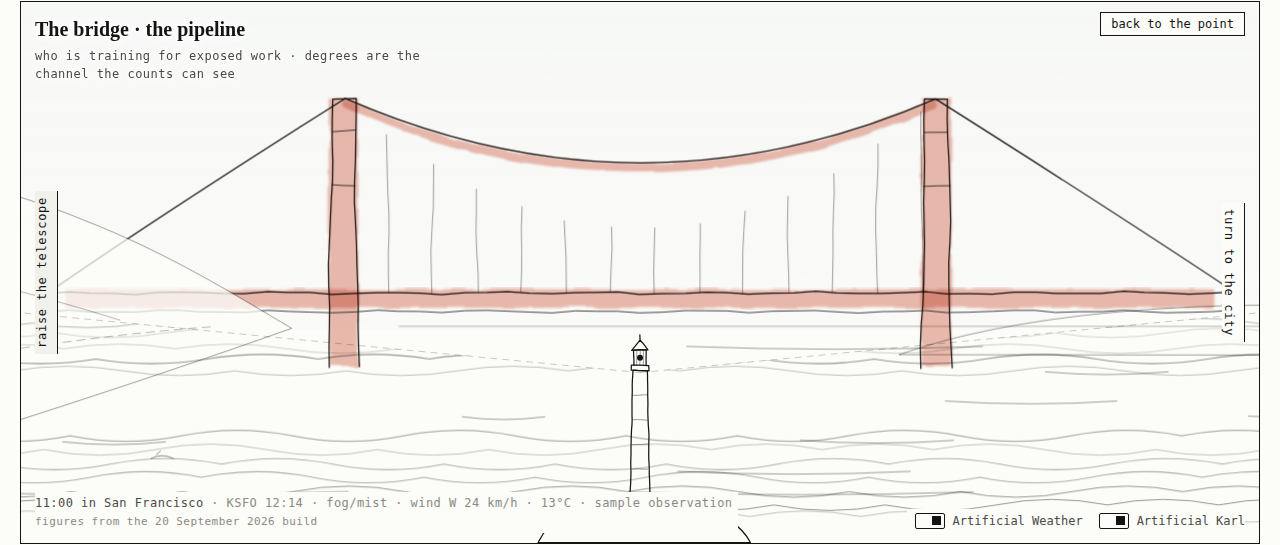
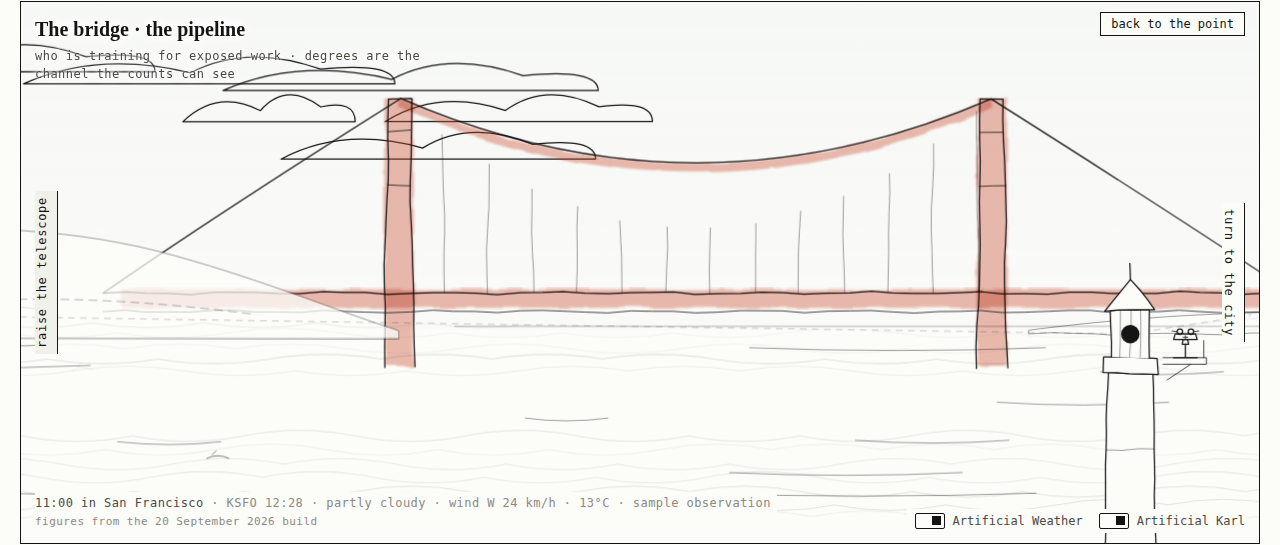
Front page: the lantern large at the edge of the turned views, the telescope on the gallery looking south, the lighthouse solid, a lower headland, Sutro's hill a slope, the city's ink lighter, homes on the southern hills, the hydrant's water away from the car, a first launch that can falter and fall

diff --git a/docs/mockup/index.html b/docs/mockup/index.html
@@ -51,6 +51,10 @@ header.top{display:flex;align-items:baseline;justify-content:space-between;gap:1
 .scene{stroke:var(--ink);fill:none;stroke-width:1.25px;stroke-linecap:round;stroke-linejoin:round}
 .scene .thin{stroke-width:.8px}
 .scene .hair{stroke-width:.55px;opacity:.75}
+@property --ck{syntax:'<number>';inherits:true;initial-value:.62}
+.stage{--ck:.62;transition:--ck 1.4s}
+.stage[data-view="city"]{--ck:1}
+.scene .city path{stroke-width:calc(1px*var(--ck))}.scene .city path.thin{stroke-width:calc(.7px*var(--ck))}.scene .city path.hair{stroke-width:calc(.45px*var(--ck))}
 .vig .scene{stroke-width:1.6}.vig .scene .thin{stroke-width:1}.vig .scene .hair{stroke-width:.7}
 .scene .solid{fill:var(--ink);stroke:none}
 .scene text{font-family:var(--mono);font-size:12px;fill:var(--ink-2);stroke:none;letter-spacing:.04em}
@@ -227,14 +231,10 @@ header.top{display:flex;align-items:baseline;justify-content:space-between;gap:1
         <path d="M600 660 C 650 640, 700 645, 740 630 M850 640 C 900 630, 950 650, 1000 670" class="thin"/>
         <g class="beam" id="beam"><path d="" class="hair" stroke-dasharray="6 6"/></g>
         <g id="lh"></g>
+        <!-- a small platform off the gallery, and the coin telescope on it, turned south -->
+        <path d="M825 283 L 858 283 L 858 288 L 825 288 M 856 283 L 856 270 M 846 288 L 828 300" class="thin" style="fill:var(--paper)"/>
+        <g transform="translate(842,283)" id="viewer-small"></g>
         <path d="M640 604 L 960 604 M640 604 L 640 630 M720 604 L 720 632 M800 604 L 800 632 M880 604 L 880 630 M960 604 L 960 628" class="thin"/>
-        <g class="hot" id="hot-tele" tabindex="0" role="button" aria-label="The telescope: where usage lands">
-          <path class="hit" d="M800 300 L560 700 L1040 700 Z"/><path class="hit" d="M690 520 h220 v180 h-220 Z"/>
-          <g transform="translate(800,655)" id="viewer-small"></g>
-          <text x="828" y="568" class="cap">The telescope</text>
-          <text x="828" y="542" class="mark" id="mark-valley"></text>
-          <g class="detail"><text x="828" y="518">where usage lands · look south, to the valley</text></g>
-        </g>
         <g class="hot" id="hot-city" tabindex="0" role="button" aria-label="The city: what has moved">
           <path class="hit" d="M800 300 L1600 120 L1600 480 Z"/><path class="hit" d="M1000 120 h560 v200 h-560 Z"/>
           <text x="1540" y="160" text-anchor="end" class="cap">The city</text>
@@ -246,6 +246,12 @@ header.top{display:flex;align-items:baseline;justify-content:space-between;gap:1
           <text x="110" y="160" class="cap">The bridge</text>
           <text x="110" y="188" class="mark" id="mark-bridge"></text>
           <g class="detail"><text x="110" y="210">the pipeline · who is training for exposed work</text></g>
+        </g>
+        <g class="hot" id="hot-tele" tabindex="0" role="button" aria-label="The telescope: where usage lands">
+          <path class="hit" d="M760 200 h110 v400 h-110 Z"/><path class="hit" d="M860 400 h290 v84 h-290 Z"/>
+          <text x="872" y="424" class="cap">The telescope</text>
+          <text x="872" y="446" class="mark" id="mark-valley"></text>
+          <g class="detail"><text x="872" y="466">where usage lands · looking south, down the bay</text></g>
         </g>
       </g></g>
     </svg>
@@ -341,12 +347,12 @@ header.top{display:flex;align-items:baseline;justify-content:space-between;gap:1
   }
   function lighthouse(g, x, y, h){
     const w = 34, top = y - h;
-    el("path", {d:`M${x-w/2-6} ${y} L ${x-w/2} ${top+40} L ${x+w/2} ${top+40} L ${x+w/2+6} ${y} Z`}, g);
+    el("path", {d:`M${x-w/2-6} ${y} L ${x-w/2} ${top+40} L ${x+w/2} ${top+40} L ${x+w/2+6} ${y} Z`, style:"fill:var(--paper)"}, g);
     for (let i=1;i<5;i++){ const yy = top+40 + (y-top-40)*i/5; el("path", {d:`M${x-w/2-1} ${yy} L ${x+w/2+1} ${yy}`, class:"hair"}, g); }
-    el("path", {d:`M${x-w/2-4} ${top+40} L ${x+w/2+4} ${top+40} L ${x+w/2+4} ${top+28} L ${x-w/2-4} ${top+28} Z`}, g);
-    el("path", {d:`M${x-w/2+2} ${top+28} L ${x-w/2+2} ${top-8} L ${x+w/2-2} ${top-8} L ${x+w/2-2} ${top+28}`}, g);
+    el("path", {d:`M${x-w/2-4} ${top+40} L ${x+w/2+4} ${top+40} L ${x+w/2+4} ${top+28} L ${x-w/2-4} ${top+28} Z`, style:"fill:var(--paper)"}, g);
+    el("path", {d:`M${x-w/2+2} ${top+28} L ${x-w/2+2} ${top-8} L ${x+w/2-2} ${top-8} L ${x+w/2-2} ${top+28}`, style:"fill:var(--paper)"}, g);
     el("path", {d:`M${x-8} ${top-8} L ${x-8} ${top+28} M${x} ${top-8} L ${x} ${top+28} M${x+8} ${top-8} L ${x+8} ${top+28}`, class:"hair"}, g);
-    el("path", {d:`M${x-w/2-2} ${top-8} L ${x+w/2+2} ${top-8} L ${x} ${top-32} Z`}, g);
+    el("path", {d:`M${x-w/2-2} ${top-8} L ${x+w/2+2} ${top-8} L ${x} ${top-32} Z`, style:"fill:var(--paper)"}, g);
     el("path", {d:`M${x} ${top-32} L ${x} ${top-44}`}, g);
     el("circle", {cx:x, cy:top+10, r:26, class:"halo"}, g);
     el("circle", {cx:x, cy:top+10, r:7, class:"solid lantern"}, g);
@@ -416,7 +422,7 @@ header.top{display:flex;align-items:baseline;justify-content:space-between;gap:1
      this one drawing about that place, so what you were looking at grows and nothing new arrives. The
      lighthouse in front is fixed, and shrinks to the base of the frame when the view has turned. */
   // c is the point of the scene brought to the middle of the frame (800, 300); s is how far the view leans in
-  const ZOOM = { home:{c:[800,300], s:1}, city:{c:[1100,300], s:2.3}, bridge:{c:[460,290], s:2.4}, valley:{c:[800,300], s:1} };
+  const ZOOM = { home:{c:[800,300], s:1}, city:{c:[1170,300], s:2.3}, bridge:{c:[430,290], s:2.4}, valley:{c:[800,300], s:1} };
   const toScreen = (view, x, y) => { const {c, s} = ZOOM[view]; return [800 + s*(x-c[0]), 300 + s*(y-c[1])]; };
   const toScene  = (view, x, y) => { const {c, s} = ZOOM[view]; return [c[0] + (x-800)/s, c[1] + (y-300)/s]; };
   const far = $("#far"), washes = $("#washes"), waterG = $("#water"), fogG = $("#fog");
@@ -429,13 +435,13 @@ header.top{display:flex;align-items:baseline;justify-content:space-between;gap:1
   // the Marin headland, near, drawn over the water so the bay ends at its foot; the road out to the point on it
   const headland = el("g", {}, waterG);
   // a ridge that falls from the left edge to the water, the Gate's north end on its shoulder
-  el("path", {d:"M 0 430 L 0 246 C 50 250, 110 262, 160 282 C 205 300, 240 322, 272 342 C 190 370, 95 400, 0 430 Z", style:"fill:var(--paper)"}, headland);
-  el("path", {d:"M 0 300 C 60 304, 120 318, 180 336", class:"hair"}, headland);
-  el("path", {d:"M 0 372 C 70 360, 150 346, 230 340", class:"hair", "stroke-dasharray":"8 6"}, headland);
+  // the Marin headland: a low rounded shoulder falling to the water at the Gate's north end
+  el("path", {d:"M 0 346 L 0 292 C 50 284, 115 286, 170 300 C 220 313, 262 330, 300 342 L 300 346 Z", style:"fill:var(--paper)"}, headland);
+  el("path", {d:"M 20 330 C 80 322, 150 324, 220 334", class:"hair", "stroke-dasharray":"8 6"}, headland);
   fog(fogG, [[330, 5, 6],[400, 6, 7],[470, 5, 5]], 11);
 
   // the Presidio's low shore at the Gate's south end, running on to the city
-  el("path", {d:"M 600 356 C 660 334, 760 324, 860 330 C 920 334, 970 338, 1000 340 L 1000 356 Z", style:"fill:var(--paper)", class:"hair"}, far);
+  el("path", {d:"M 640 342 C 700 334, 780 330, 860 334 C 940 338, 1030 340, 1080 340 L 1080 344 L 640 344 Z", style:"fill:var(--paper)", class:"hair"}, far);
   // the Gate, across the middle distance
   suspension(far, 300, 620, 322, 105, 70);
   tintRect(washes, 150, 320, 620, 10, "var(--orange)");                                              // the deck
@@ -445,13 +451,14 @@ header.top{display:flex;align-items:baseline;justify-content:space-between;gap:1
   // the city, small on the horizon, drawn once at the size it has from here; turning to it scales this
   const CITY = { x:900, y:340, k:0.42 };
   const cityTransform = `translate(${CITY.x},${CITY.y}) scale(${CITY.k})`;
-  const cityG = el("g", {transform:cityTransform}, far), cityW = el("g", {transform:cityTransform}, washes);
+  const cityG = el("g", {transform:cityTransform, class:"city"}, far), cityW = el("g", {transform:cityTransform}, washes);
 
   function skyline(g, w, baseY, colour, ox=0){
     // the hills behind the city, filled, so the sky stays behind them
-    el("path", {d:`M ${ox+30} ${baseY-6} C ${ox+200} ${baseY-30}, ${ox+400} ${baseY-40}, ${ox+700} ${baseY-24} C ${ox+900} ${baseY-14}, ${ox+1100} ${baseY-20}, ${ox+1580} ${baseY-8} L ${ox+30} ${baseY-8} Z`, class:"thin", style:"fill:var(--paper)"}, g);
-    el("path", {d:`M ${ox+520} ${baseY-60} C ${ox+640} ${baseY-120}, ${ox+760} ${baseY-118}, ${ox+880} ${baseY-70} L ${ox+880} ${baseY-8} L ${ox+520} ${baseY-8} Z`, class:"hair", style:"fill:var(--paper)"}, g);
-    const sx = ox+700, sy = baseY-103;
+    // the land: a slope up from the shore to Sutro's crest, down again, then the flat of downtown to the waterfront
+    const b0 = baseY-8;
+    el("path", {d:`M ${ox+420} ${b0} C ${ox+500} ${b0-12}, ${ox+570} ${b0-52}, ${ox+630} ${b0-84} C ${ox+665} ${b0-100}, ${ox+735} ${b0-100}, ${ox+770} ${b0-86} C ${ox+830} ${b0-60}, ${ox+880} ${b0-26}, ${ox+960} ${b0-14} C ${ox+1100} ${b0-6}, ${ox+1300} ${b0-4}, ${ox+1580} ${b0} Z`, class:"thin", style:"fill:var(--paper)"}, g);
+    const sx = ox+700, sy = baseY-104;
     // Sutro: three masts, the outer pair upright at the top, pinched to a waist, splayed to the feet, tied by struts
     const H = 100;
     el("path", {d:`M${sx-26} ${sy} L ${sx-7} ${sy-H*0.5} L ${sx-16} ${sy-H*0.62} L ${sx-16} ${sy-H} M${sx} ${sy-H-8} L ${sx} ${sy} M${sx+26} ${sy} L ${sx+7} ${sy-H*0.5} L ${sx+16} ${sy-H*0.62} L ${sx+16} ${sy-H}`, class:"thin"}, g);
@@ -485,6 +492,15 @@ header.top{display:flex;align-items:baseline;justify-content:space-between;gap:1
 
   // the lighthouse, in front, on the point
   lighthouse($("#lh"), 800, 585, 330);
+  (function southHills(g){
+    el("path", {d:"M 1452 340 C 1490 326, 1535 316, 1575 318 C 1590 319, 1598 322, 1600 324 L 1600 340 Z", class:"hair", style:"fill:var(--paper)"}, g);
+    el("path", {d:"M 1500 340 C 1530 334, 1560 330, 1600 331", class:"hair"}, g);
+    const r = rng(71);
+    for (let x = 1462; x < 1596; x += 9 + r()*6){
+      const t = (x - 1452)/148, hy = 340 - 22*Math.sin(Math.min(1, t*1.2)*Math.PI/2) + 2, w = 4 + r()*3, h = 3 + r()*2;
+      el("path", {d:`M${x} ${hy} L ${x} ${hy-h} L ${x+w/2} ${hy-h-2.5} L ${x+w} ${hy-h} L ${x+w} ${hy}`, class:"hair"}, g);
+    }
+  })(far);
   wobble(far, 1); wobble($("#lh"), 2); wobble(headland, 6);
 
   /* ---------- the city after dark ----------
@@ -530,7 +546,7 @@ header.top{display:flex;align-items:baseline;justify-content:space-between;gap:1
     el("path", {d:`M${-21*s} ${-66*s} L ${-34*s} ${-68*s} M${21*s} ${-66*s} L ${34*s} ${-68*s}`, class:"thin"}, g);
     el("path", {d:`M${-6*s} ${-52*s} L ${6*s} ${-52*s} M 0 ${-56*s} L 0 ${-48*s}`, class:"thin"}, g);   // the coin slot, a cross
   }
-  viewer($("#viewer-small"), 1);
+  viewer($("#viewer-small"), .3);
   (function big(){
     const g = $("#viewer-big");
     const hood = el("g", {transform:"translate(800,700)"}, g);
@@ -570,18 +586,23 @@ header.top{display:flex;align-items:baseline;justify-content:space-between;gap:1
   const beam = $("#beam"), cone = $("#cone"), pans = document.querySelectorAll("svg.pan"), fgSvg = $("#L-fg"), fg = $("#fg"), stage = $("#stage");
   // what each view is, in the scene: the two ends the beam reaches for. The telescope is in front, on the rail.
   // from the point the beam reaches for the whole of the place; once turned, it skims the water to the place's feet
-  const TARGET = { city:{ ends:[[930, 230], [1560, 336]], base:[[930, 340], [1560, 340]] }, bridge:{ ends:[[160, 240], [760, 330]], base:[[160, 336], [760, 336]] }, tele:{ ends:[[660, 600], [940, 600]] } };
+  const TARGET = { city:{ ends:[[1050, 230], [1560, 336]], base:[[1050, 340], [1450, 340]] }, bridge:{ ends:[[160, 240], [760, 330]], base:[[160, 336], [760, 336]] }, tele:{ ends:[[1470, 334], [1600, 346]] } };
   const beamPath = $("#beam path");
+  // where the lighthouse stands in each view: whole at the point; turned, only its lantern shows, large, at the side you turned from
+  const LANTERN = [800, 265];
+  const fgAt = (x, y, s) => ({ s, t:[x - s*LANTERN[0], y - s*LANTERN[1]] });
+  const FG = { home:{ s:1, t:[0,0] }, city:fgAt(165, 430, 1.7), bridge:fgAt(1435, 430, 1.7), valley:{ s:1, t:[0,0] } };
+  const fgToScreen = (view, [x, y]) => { const f = FG[view] || FG.home; return [f.t[0] + f.s*x, f.t[1] + f.s*y]; };
+  const screenToFg = (view, [x, y]) => { const f = FG[view] || FG.home; return [(x - f.t[0])/f.s, (y - f.t[1])/f.s]; };
   function aim(t){
     const view = stage.dataset.view, target = TARGET[t];
     if (!target){ beamPath.setAttribute("d", ""); cone.setAttribute("points", "0,0"); return; }
     // the lantern and the target on screen: at the point when home, else the small lighthouse at the base and the scaled scene
-    const zoomed = view !== "home", lantern = zoomed ? [800, 480] : [800, 300], ends = zoomed && target.base ? target.base : target.ends;
-    const onScreen = t === "tele" ? ends : ends.map(([x, y]) => { if (!zoomed) return [x, y]; const [sx, sy] = toScreen(view, x, y); return [Math.max(40, Math.min(1560, sx)), sy]; });
-    // the beam is drawn in the lighthouse's own space, which is scaled to the base when the view has turned
-    const toFg = ([x, y]) => zoomed ? [800 + (x-800)/0.55, 700 + (y-700)/0.55] : [x, y];
+    const zoomed = view !== "home", lantern = fgToScreen(view, LANTERN), ends = zoomed && target.base ? target.base : target.ends;
+    const onScreen = ends.map(([x, y]) => { if (!zoomed) return [x, y]; const [sx, sy] = toScreen(view, x, y); return [Math.max(40, Math.min(1560, sx)), sy]; });
+    // the beam is drawn in the lighthouse's own space, which moves and scales with it
     const past = ([x, y]) => [lantern[0] + (x-lantern[0])*1.25, lantern[1] + (y-lantern[1])*1.25];
-    beamPath.setAttribute("d", onScreen.map(e => { const [x, y] = toFg(past(e)); return `M800 300 L ${x.toFixed(1)} ${y.toFixed(1)}`; }).join(" "));
+    beamPath.setAttribute("d", onScreen.map(e => { const [x, y] = screenToFg(view, past(e)); return `M${LANTERN[0]} ${LANTERN[1]} L ${x.toFixed(1)} ${y.toFixed(1)}`; }).join(" "));
     // the fog opens between the same two lines, in scene units
     const [ox, oy] = zoomed ? toScene(view, ...lantern) : lantern, L = 1400/ZOOM[view].s;
     const ang = onScreen.map(([x, y]) => Math.atan2(y-lantern[1], x-lantern[0])); let [a0, a1] = ang; if (a1 < a0) [a0, a1] = [a1, a0]; if (a1 - a0 > Math.PI){ [a0, a1] = [a1, a0 + 2*Math.PI]; }
@@ -666,8 +687,8 @@ header.top{display:flex;align-items:baseline;justify-content:space-between;gap:1
     // the one drawing scales about the place turned to; the lighthouse in front shrinks to the base of the frame
     const {c, s: zs} = ZOOM[view];
     document.querySelectorAll(".zoom").forEach(g => { if (g.id !== "fgzoom") g.style.transform = `translate(${800 - zs*c[0]}px, ${300 - zs*c[1]}px) scale(${zs})`; });
-    const fs = zs > 1 ? 0.55 : 1;
-    $("#fgzoom").style.transform = `translate(800px, 700px) scale(${fs}) translate(-800px, -700px)`;
+    const f = FG[view] || FG.home;
+    $("#fgzoom").style.transform = `translate(${f.t[0]}px, ${f.t[1]}px) scale(${f.s})`;
     $("#cap-h").textContent = r.cap[0]; $("#cap-p").textContent = r.cap[1];
     $("#r-title").textContent = r.title; $("#r-lens").textContent = r.lens;
     marks();
@@ -891,24 +912,30 @@ header.top{display:flex;align-items:baseline;justify-content:space-between;gap:1
       const light = el("circle", {cx:-30, cy:0, r:1.8, class:"solid"}, g); let on = false; const blink = setInterval(()=>{ on = !on; light.style.opacity = on ? 1 : 0; }, 700);
       const y = 120 + Math.random()*40;
       tween(32000, k=>{ g.setAttribute("transform", `translate(${1660 - k*1760},${y + k*18})`); }, ()=>{ clearInterval(blink); g.remove(); }); },
-    rocket(){ if (!["bridge","valley","home"].includes(stage.dataset.view)) return EVENTS.gull();
-      const view = stage.dataset.view, g = el("g", {class:"thin"}, life); const x0 = {home:1320, bridge:1180, valley:760}[view];
-      el("path", {d:"M0 0 L 0 -26 L 4 -34 L 8 -26 L 8 0 Z M0 0 L -4 6 M8 0 L 12 6", transform:"translate(-4,0)"}, g);
+    rocket(){ const view = stage.dataset.view; if (view === "city") return EVENTS.gull();
+      // it lifts from beyond the southern hills on the horizon, or, through the eyepieces, from the valley
+      const [x0, y0] = view === "valley" ? [760, 330] : view === "home" ? [1545, 332] : [1480, toScreen("bridge", 0, 338)[1]];
+      const g = el("g", {class:"thin"}, life);
+      el("path", {d:"M0 0 L 0 -26 L 4 -34 L 8 -26 L 8 0 Z M0 0 L -4 6 M8 0 L 12 6", transform:"translate(-4,0)", style:"fill:var(--paper)"}, g);
       const plume = el("g", {class:"hair"}, g);
       const puff = () => { if (plume.childElementCount < 40 && Math.random() < .6) el("path", {d:`M${(Math.random()-.5)*8} ${6 + Math.random()*10} l 0 ${6 + Math.random()*14}`}, plume); };
-      if (Math.random() < 2/3){
-        tween(14000, k=>{ const y = 300 - k*k*520, x = x0 + k*k*140; g.setAttribute("transform", `translate(${x},${y}) rotate(${k*14})`); puff(); plume.style.opacity = 1 - k*0.6; }, ()=>g.remove());
+      if (!FORCE_FAIL && Math.random() < 2/3){
+        tween(14000, k=>{ const y = y0 - k*k*(y0+80), x = x0 - k*k*170; g.setAttribute("transform", `translate(${x},${y}) rotate(${-k*16})`); puff(); plume.style.opacity = 1 - k*0.6; }, ()=>g.remove());
         return; }
-      // the other time: it climbs, falters, tumbles back to the water, and the bay closes over it
-      const waterY = {home:540, bridge:520, valley:430}[view]; let splash = null;
-      tween(11000, k=>{
-        if (k < .4){ const t = k/.4; const y = 300 - (2*t - t*t)*250, x = x0 + t*50; g.setAttribute("transform", `translate(${x},${y}) rotate(${t*14})`); puff(); plume.style.opacity = 1 - t*.7; }
-        else if (k < .82){ const t = (k-.4)/.42; const y = 50 + t*t*(waterY-50), x = x0 + 50 + Math.sin(t*9)*22; g.setAttribute("transform", `translate(${x},${y}) rotate(${14 + t*t*320 + Math.sin(t*26)*20})`); plume.style.opacity = Math.max(0, .3 - t); }
-        else { if (!splash){ g.style.opacity = 0; splash = el("g", {class:"thin"}, life); const sx = x0 + 50 + Math.sin(9)*22;
-            for (let i=0;i<7;i++){ const a = (-150 + i*20)*Math.PI/180; el("path", {d:`M${sx} ${waterY} l ${Math.cos(a)*8} ${Math.sin(a)*8} l ${Math.cos(a)*10} ${Math.sin(a)*14}`}, splash); }
-            el("path", {d:`M${sx-30} ${waterY+6} q 30 -5 60 0 M${sx-48} ${waterY+14} q 48 -6 96 0`, class:"hair"}, splash); }
-          splash.style.opacity = 1 - (k-.82)/.18; }
-      }, ()=>{ g.remove(); if (splash) splash.remove(); }); },
+      // the other time: it climbs, coughs, hangs and shudders, then tumbles back to the water, and the bay closes over it
+      const top = y0 - 230, xf = x0 - 40, waterY = y0 + 38; let pop = null, splash = null, fx = xf;
+      tween(12500, k=>{
+        if (k < .36){ const t = k/.36; g.setAttribute("transform", `translate(${x0 - t*40},${y0 - (2*t - t*t)*230}) rotate(${-t*10})`); puff(); }
+        else if (k < .46){ const t = (k-.36)/.1;
+          if (!pop){ pop = el("g", {class:"hair"}, life); for (let i=0;i<9;i++){ const a = i/9*2*Math.PI; el("path", {d:`M${xf + Math.cos(a)*7} ${top - 16 + Math.sin(a)*7} l ${Math.cos(a)*9} ${Math.sin(a)*9}`}, pop); } plume.style.opacity = 0; }
+          g.setAttribute("transform", `translate(${xf + Math.sin(t*44)*2.5},${top + t*6}) rotate(${-10 + Math.sin(t*34)*14})`); pop.style.opacity = 1 - t*.6; }
+        else if (k < .86){ const t = (k-.46)/.4; fx = xf + Math.sin(t*10)*20;
+          g.setAttribute("transform", `translate(${fx},${top + 6 + t*t*(waterY - top - 6)}) rotate(${-10 + t*t*420 + Math.sin(t*24)*25})`); if (pop) pop.style.opacity = Math.max(0, .4 - t*2); }
+        else { if (!splash){ g.style.opacity = 0; splash = el("g", {class:"thin"}, life);
+            for (let i=0;i<7;i++){ const a = (-150 + i*20)*Math.PI/180; el("path", {d:`M${fx} ${waterY} l ${Math.cos(a)*8} ${Math.sin(a)*8} l ${Math.cos(a)*10} ${Math.sin(a)*14}`}, splash); }
+            el("path", {d:`M${fx-30} ${waterY+6} q 30 -5 60 0 M${fx-48} ${waterY+14} q 48 -6 96 0`, class:"hair"}, splash); }
+          splash.style.opacity = 1 - (k-.86)/.14; }
+      }, ()=>{ g.remove(); if (pop) pop.remove(); if (splash) splash.remove(); }); },
     robotaxi(){ if (stage.dataset.view !== "city") return EVENTS.gull();
       // the city's own units on screen, and the drawn hydrant's place on the shore; it comes in from the west along the front
       const k = ZOOM.city.s*CITY.k, [hx, hy] = toScreen("city", CITY.x + HYD*CITY.k, CITY.y);
@@ -919,7 +946,7 @@ header.top{display:flex;align-items:baseline;justify-content:space-between;gap:1
       el("path", {d:"M-10 0 a 3 3 0 1 0 6 0 a 3 3 0 1 0 -6 0 M4 0 a 3 3 0 1 0 6 0 a 3 3 0 1 0 -6 0 M-8 -14 L -6 -8 M 10 -14 L 8 -8", class:"thin", style:"fill:var(--paper)"}, car);
       const dome = el("circle", {cx:2, cy:-18, r:1.2, class:"solid"}, car); let d = 0; const spin = setInterval(()=>{ dome.setAttribute("cx", 2 + Math.cos(d+=.6)*3); }, 80);
       // the water, from the drawn hydrant's cap, pouring toward the car
-      const spout = el("g", {class:"thin", transform:`translate(${hx},${hy}) scale(${k})`}, life); spout.style.opacity = 0;
+      const spout = el("g", {class:"thin", transform:`translate(${hx},${hy}) scale(${-k},${k})`}, life); spout.style.opacity = 0;
       for (let i=0;i<9;i++) el("path", {d:`M0 -17 q ${6 + i*2} ${-14 - i*3} ${14 + i*4} ${-2 + i*2} M${14 + i*4} ${-2 + i*2} l 1 3`}, spout);
       const stop = hx + 20*S;
       tween(11000, k=>{ const x = x0 + Math.min(k*1.12, 1)*(stop-x0); const bump = k > .89 ? Math.sin((k-.89)*70)*2.5 : 0; g.setAttribute("transform", `translate(${x+bump},${y})`); if (k > .89) spout.style.opacity = Math.min(1, (k-.89)*12); },
@@ -930,12 +957,16 @@ header.top{display:flex;align-items:baseline;justify-content:space-between;gap:1
       const g = el("g", {class:"thin"}, life); el("path", {d:"M0 0 l -30 0 l 6 10 l 48 0 l 6 -10 z M-14 0 l 0 -10 l 22 0 l 0 10 M-4 -10 l 0 -9"}, g);
       tween(34000, k=>{ g.setAttribute("transform", `translate(${700 + k*1000},${560 + Math.sin(k*20)*1.5})`); }, ()=>g.remove()); },
   };
-  const WEIGHTS = [["gull",6],["plane",1],["gust",2],["ferry",1],["rocket",1],["robotaxi",1]];
+  const WEIGHTS = [["gull",6],["plane",1],["gust",2],["ferry",1],["rocket",2],["robotaxi",1]];
+  const FORCE_FAIL = params.get("rocket") === "fail";
   const WELCOME = { city:"robotaxi", bridge:"ferry", home:"gull", valley:"gull" };
   let welcomeTimer = null;
   function welcome(view){ clearTimeout(welcomeTimer); if (reduced || params.get("event")) return; welcomeTimer = setTimeout(()=>{ if (stage.dataset.view === view) EVENTS[WELCOME[view]](); }, view === "city" ? 6000 : 2600); }
   function pick(){ const total = WEIGHTS.reduce((a,[,w])=>a+w,0); let r = Math.random()*total; for (const [k,w] of WEIGHTS){ if ((r -= w) < 0) return k; } return "gull"; }
-  function schedule(){ if (reduced) return; setTimeout(()=>{ EVENTS[pick()](); schedule(); }, 25000 + Math.random()*40000); }
+  // the first thing to happen on the bay, a little after arriving, is a launch; after that, whatever comes
+  let firstEvent = true;
+  function schedule(){ if (reduced) return; const wait = firstEvent ? 14000 + Math.random()*6000 : 25000 + Math.random()*40000;
+    setTimeout(()=>{ EVENTS[firstEvent ? "rocket" : pick()](); firstEvent = false; schedule(); }, wait); }
   if (params.get("event")){ setTimeout(()=>EVENTS[params.get("event")] && EVENTS[params.get("event")](), 2000); }
   schedule();
 
